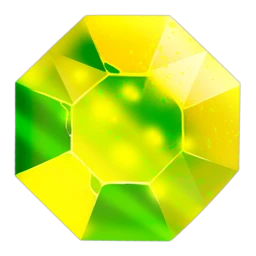
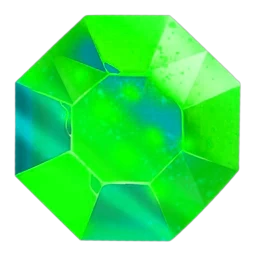
Fusion round 11: frozen-peaks lows, star-gems
Claude-Session: https://claude.ai/code/session_01LcC21fng844zb5K8BRYuAt

diff --git a/LuckyVault/public/sw.js b/LuckyVault/public/sw.js
@@ -1,5 +1,5 @@
 // Offline cache for the game client (API calls always go to the network).
-const V = 'lv-v189';
+const V = 'lv-v190';
 const FILES = ['./', './index.html', './config.js', './manifest.webmanifest', './js/slots-engine.js', './js/catalog.js', './js/tables-engine.js', './js/tables-ui.js', './js/social.js', './js/fx.js', './js/feat-ui.js', './js/hov-ui.js', './js/roadmap.js', './js/vegas.js', './js/rules.js', './js/onboard.js', './js/friends-ui.js', './js/rg.js', './js/support-ui.js', './js/replay.js', './js/fx2.js', './js/i18n.js', './js/iap.js', './assets/fonts/Anton.woff2', './assets/fonts/Cinzel.woff2', './icons/icon-192.png', './icons/icon-512.png'];
 self.addEventListener('install', e => { e.waitUntil(caches.open(V).then(c => c.addAll(FILES)).then(() => self.skipWaiting())); });
 self.addEventListener('activate', e => { e.waitUntil(caches.keys().then(ks => Promise.all(ks.filter(k => k !== V).map(k => caches.delete(k)))).then(() => self.clients.claim())); });

diff --git a/LuckyVault/tools/build_fusion.py b/LuckyVault/tools/build_fusion.py
@@ -143,10 +143,15 @@ G = {
  'koi-pond': dict(src=[None, None] + P(SEA, 35) + [None] + P(SEA, 47, 26) + [None] * 5, glow=(255, 150, 110)),
  # Jungle King: h2,h3,h4 shared with jungle-reels -> blueberries, pineapple, wild strawberry (512 painted; h1 is already a dragon fruit)
  'jungle-king': dict(src=[None] + P(FR, 39, 45, 26) + [None] * 7, glow=(160, 255, 120)),
+ # ---- batch 11 ----
+ # Frozen Peaks: l1,l2,l5 shared with frozen-kingdom -> ice shards
+ 'frozen-peaks#2': dict(slug='frozen-peaks', src=[None] * 4 + P(MG, 16, 22) + [None, None] + P(MG, 40) + [None, None], glow=(140, 220, 255)),
+ # Star Gems: h3,h4,l1 shared with diamond-strike -> hue-rotated
+ 'star-gems': dict(src=[None] * 11, hue=(60, ['h3', 'h4', 'l1']), glow=(255, 230, 140)),
 }
 todo = sys.argv[1:] or list(G)
 for slug in todo:
-    g = G[slug]; d = A + 'games/' + slug + '/'; e = man['games'][slug]
+    g = G[slug]; slug = g.get('slug', slug); d = A + 'games/' + slug + '/'; e = man['games'][slug]
     for k, s in zip(K, g['src']):
         if not s or 'sym_' + k not in e: continue
         (tile(s, d + k + '.webp', g['tile']) if g.get('tile') else sym(s, d + k + '.webp')); e['sym_' + k] = k + '.webp'

diff --git a/LuckyVault/CHANGELOG.md b/LuckyVault/CHANGELOG.md
@@ -717,3 +717,7 @@ Frame-by-frame phone QA (idle, bet, deal x8, result, squeeze) in 中文 and Engl
 - 宝石矿：与霓虹之夜共用的 3 颗宝石 → 换色
 - 锦鲤池：与海洋珍珠 Link 共用的 3 个符号 → 红锦鲤、睡莲叶、绿珊瑚
 - 丛林之王：与丛林转轴共用的 3 个符号 → 蓝莓、菠萝、野草莓（避开本款已有的火龙果）
+
+## Round 100 (20:01) 素材融合第 11 批
+- 冰峰：与冰雪王国共用的 3 个低分符号 → 冰晶碎片
+- 星光宝石：与钻石冲击共用的 3 颗宝石 → 换色
